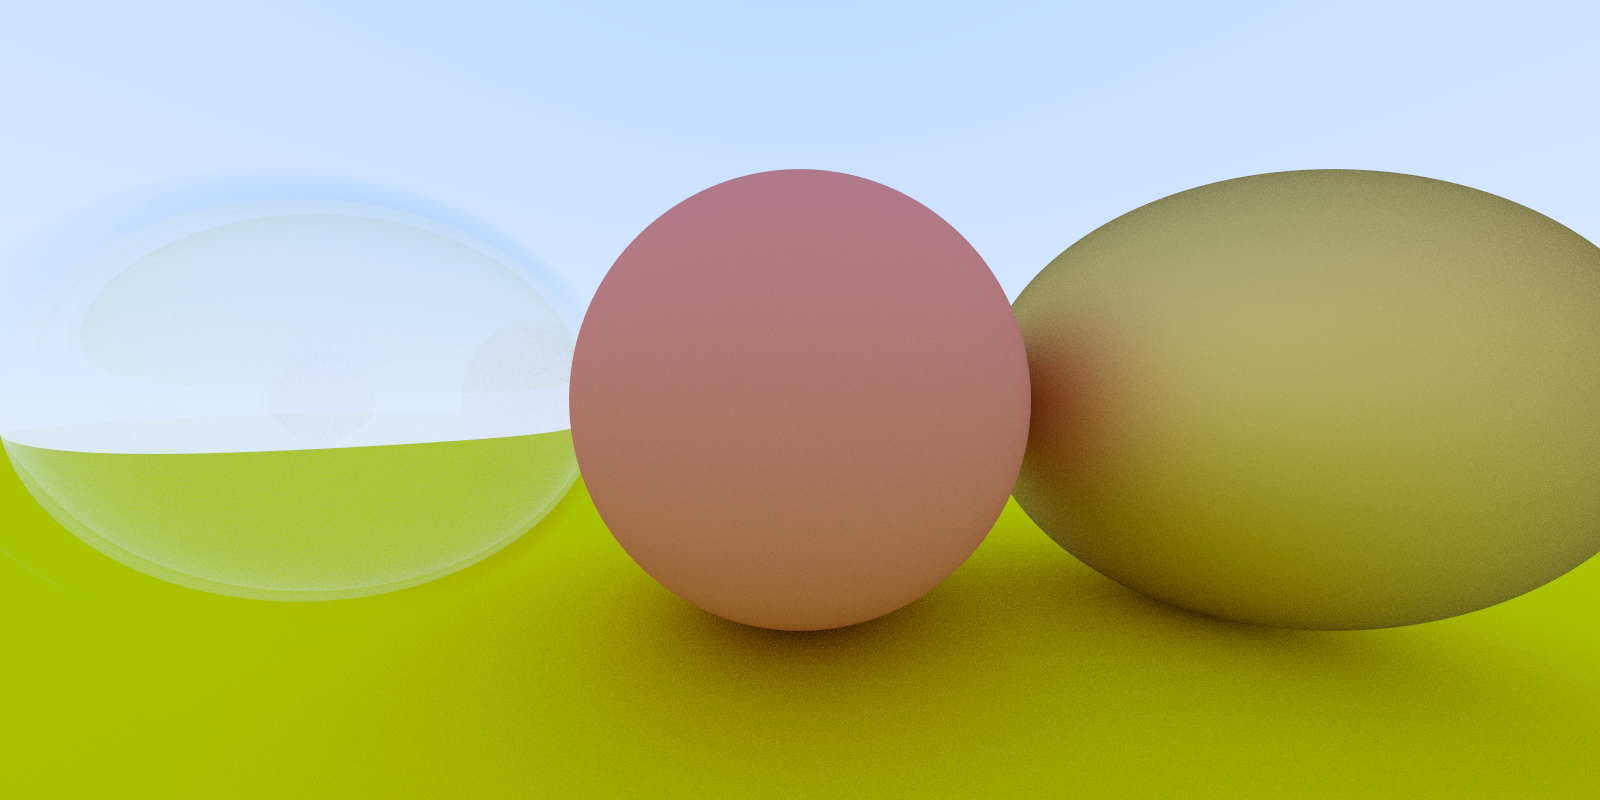
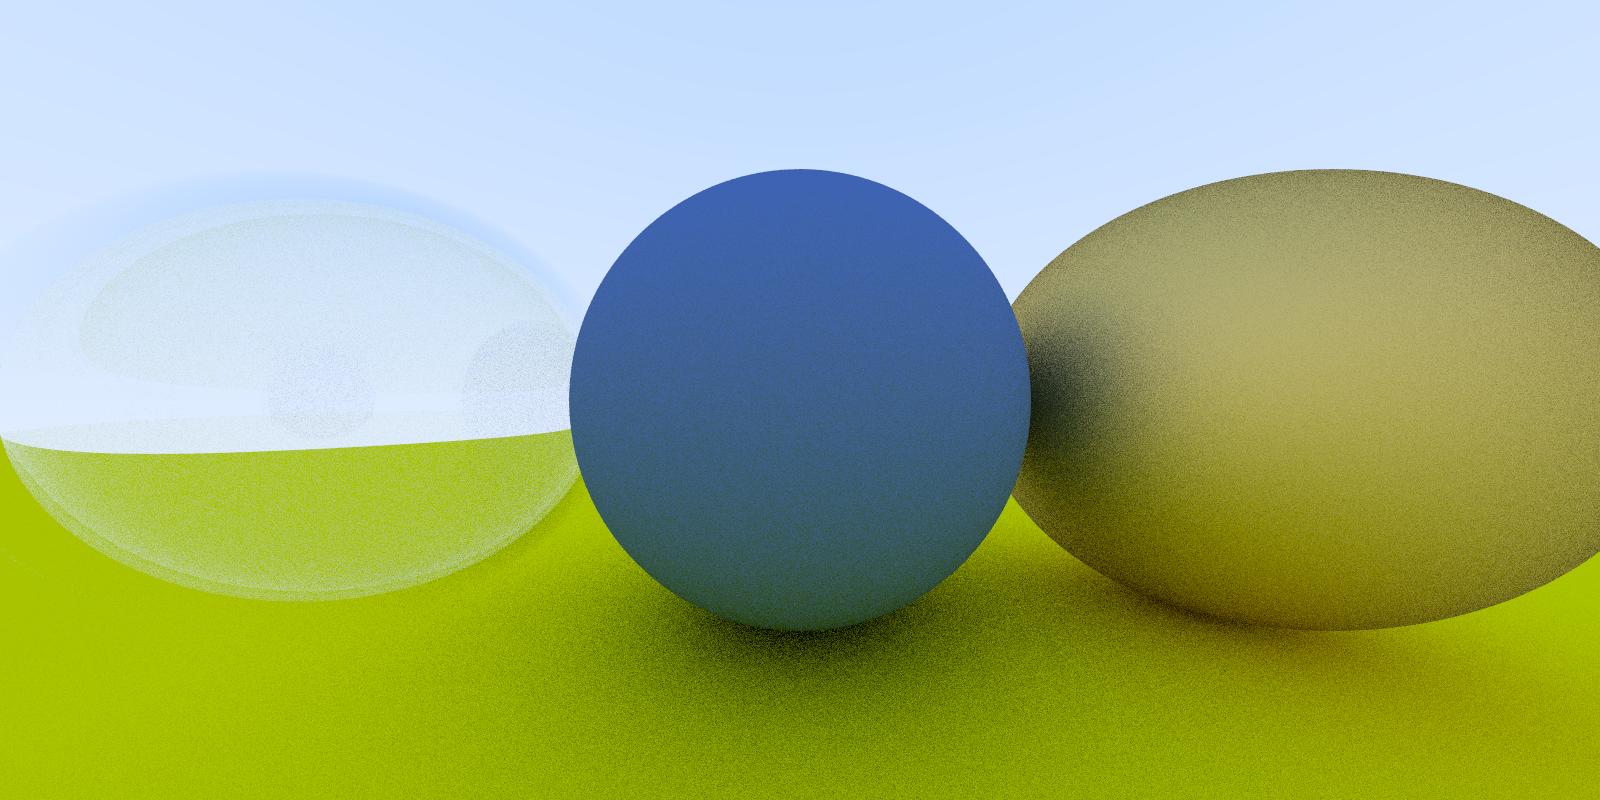
change of colour

Changed region(s): [[0.0, 0.1875, 1.0, 1.0], [0.0, 0.6875, 0.0312, 0.7188]]

diff --git a/raytracer/raytracer.cpp b/raytracer/raytracer.cpp
@@ -32,11 +32,11 @@ void redraw(U8* outPtr, int width, int height) {
 #if DEBUG
     const int ns = 4;
 #else
-    const int ns = 100;
+    const int ns = 20;
 #endif
     
     hitable* list[5];
-    list[0] = new sphere(vec3(0,0,-1), 0.5, new lambertian(vec3(0.8, 0.3, 0.3)));
+    list[0] = new sphere(vec3(0,0,-1), 0.5, new lambertian(vec3(0.1, 0.2, 0.5)));
     list[1] = new sphere(vec3(0, -100.5, -1), 100, new lambertian(vec3(0.8, 0.8, 0.0)));
     list[2] = new sphere(vec3(1, 0, -1), 0.5, new metal(vec3(0.8, 0.6, 0.2), 1.0));
     list[3] = new sphere(vec3(-1, 0, -1), 0.5, new dielectric(1.5));
